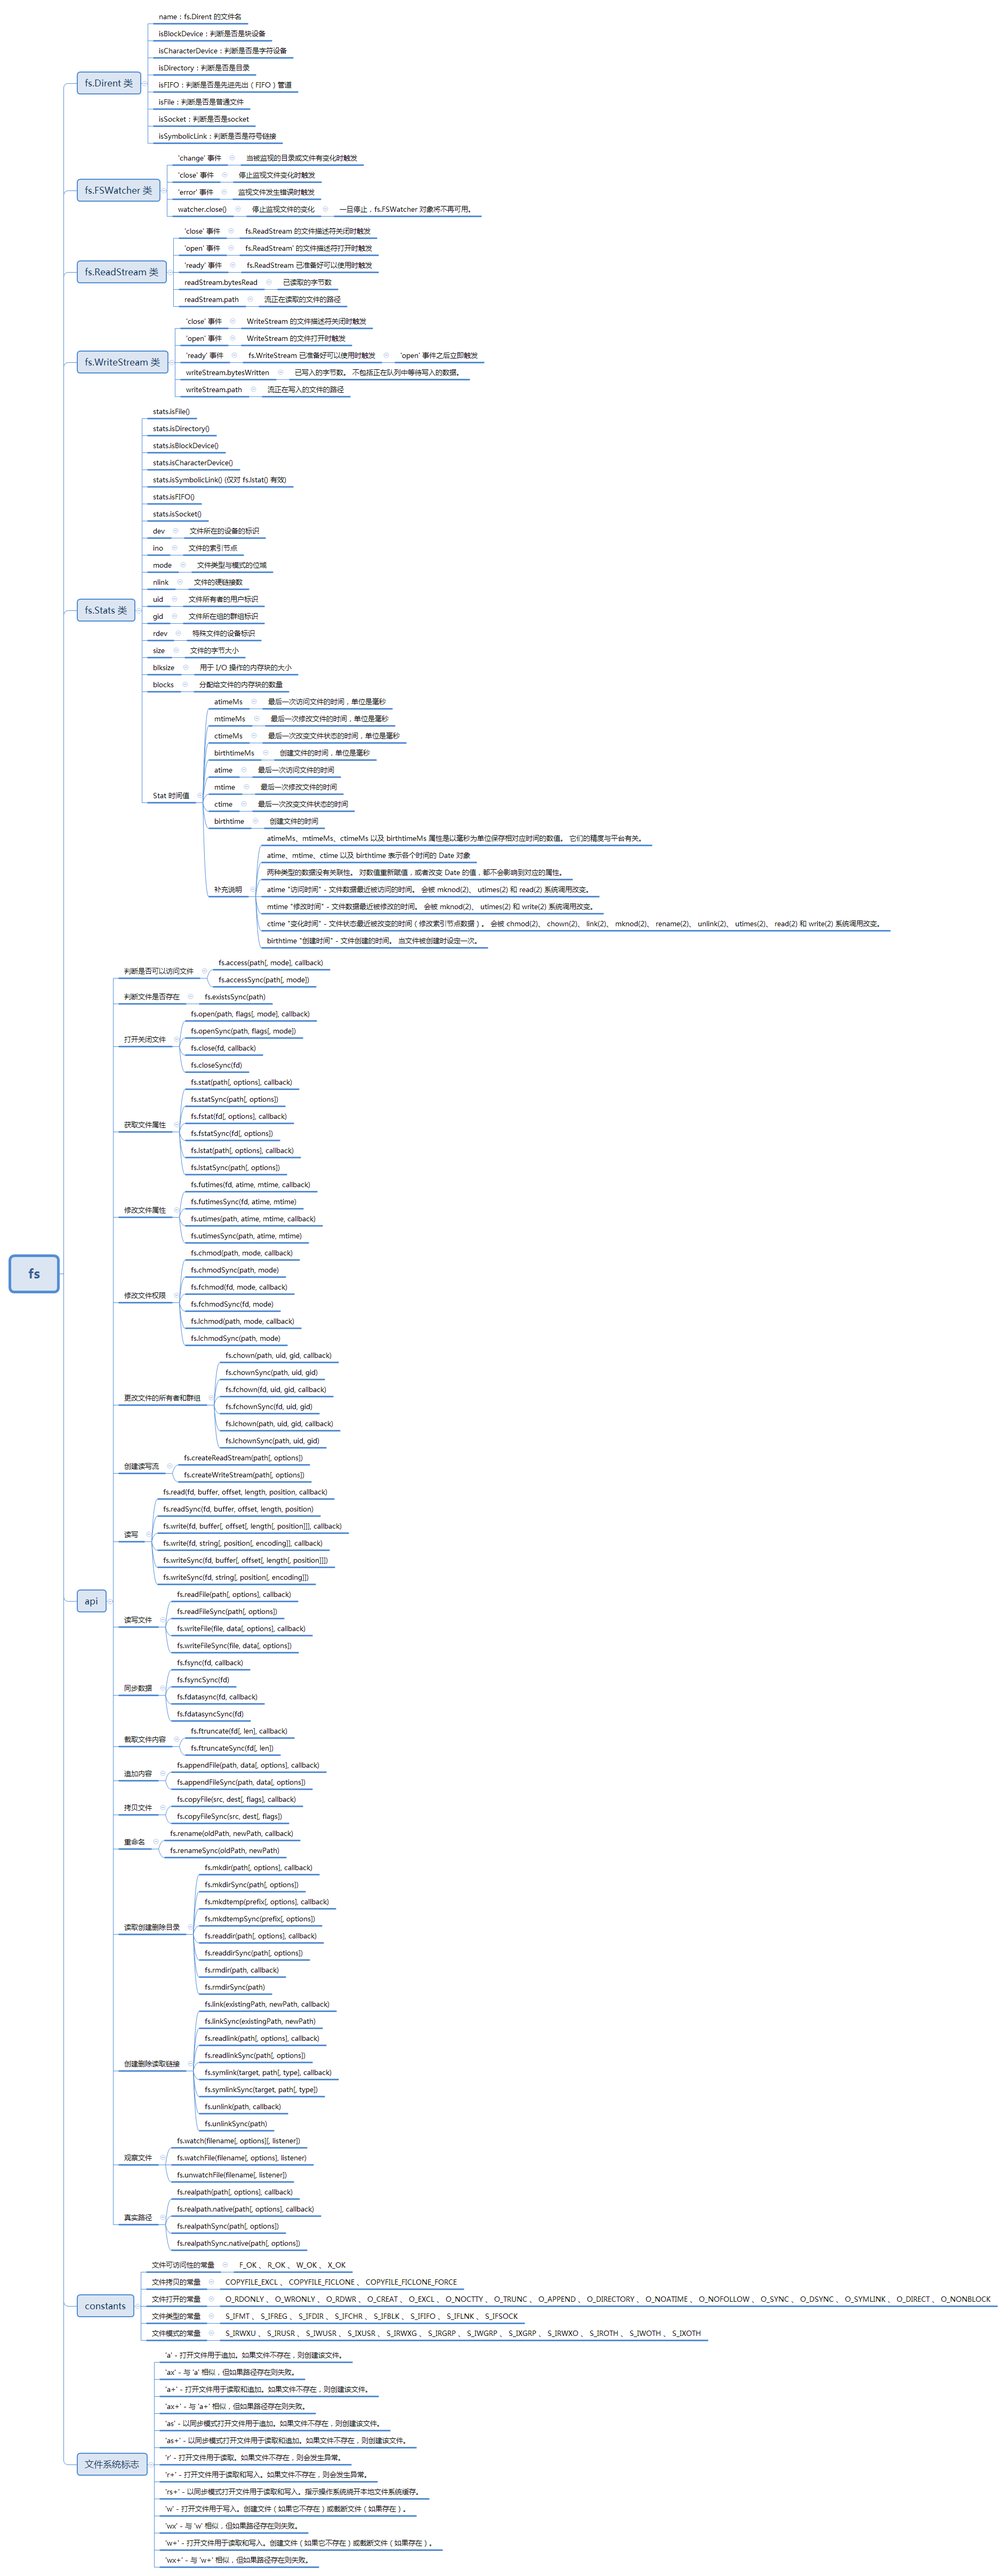
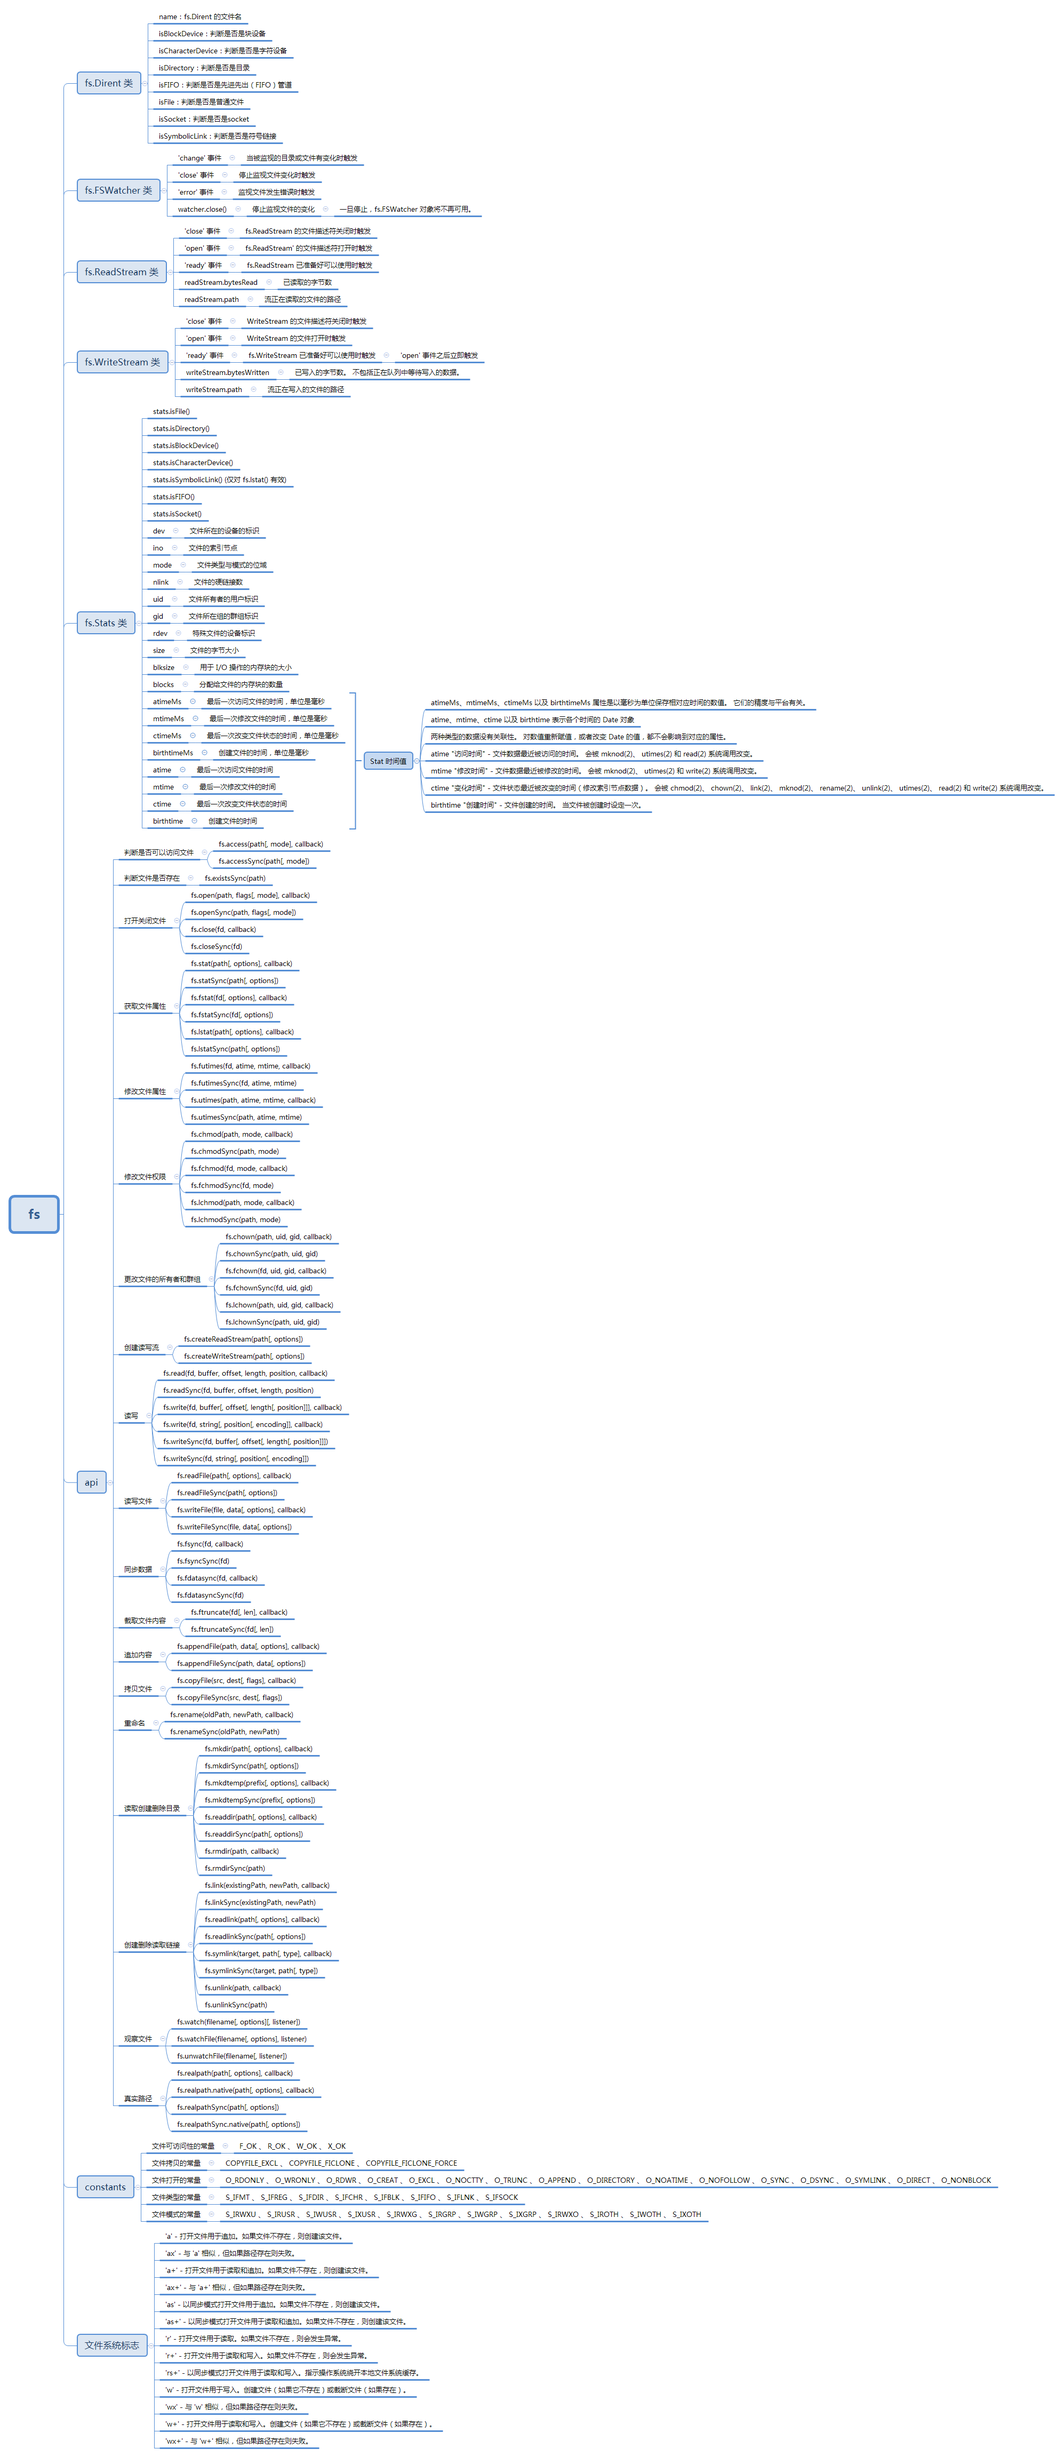
更新nodejs的文件操作模块概览图

Changed region(s): [[0.0625, 0.0, 0.7808, 1.0], [0.8121, 0.8693, 0.937, 0.9003], [0.0312, 0.4657, 0.0625, 0.4967]]

diff --git a/node/doc/fs.md b/node/doc/fs.md
@@ -1,0 +1,110 @@
+## nodejs —— fs
+### 概览
+fs 模块提供了一个 API，用于以接近标准 POSIX 函数的方式与文件系统进行交互。所有文件系统操作都具有同步和异步的形式。
+
+异步的形式始终将完成回调作为其最后一个参数。 传递给完成回调的参数取决于具体方法，但第一个参数始终保留用于异常。 如果操作成功完成，则第一个参数将为 null 或 undefined。使用异步方法时无法保证顺序
+
+使用同步操作发生的异常会立即抛出，可以使用 try/catch 处理，也可以允许冒泡。
+
+![fs概览](../images/fs.png)
+
+
+### nodejs读写文件的三种方式
+#### 一、readFile和writeFile
+1、readFile方法是将要读取的文件内容完整读入缓存区，再从该缓存区中读取文件内容，具体操作如下：
+<pre><code>fs.readFile('./test.txt', 'utf8', function(err, data){
+  console.log(data); 
+});	</code></pre>
+与其对应的同步方法为：
+<pre><code>var data = fs.readFileSync('./test.txt', 'utf8');
+console.log(data);
+</code></pre>
+同步方法和异步方法的区别是：在使用同步方法执行的操作结束之前，不能执行后续代码的执行；而异步方法将操作结果作为回调函数的参数进行返回，方法调用之后，就可以立即执行后续的代码，读取完毕后会调用对应的回调函数。
+
+2、writeFile方法是将要写入的文件内容完整的读入缓存区，然后一次性的将缓存区中的内容写入都文件中，其同步和异步具体操作如下：
+<pre><code>fs.writeFile('./message.txt', '这是第一行',function(err){
+  if(err) console.log('写文件操作失败');
+  else console.log('写文件操作成功');
+});</code></pre>
+与其对应的同步方法为：
+<pre><code>fs.writeFileSync('./message.txt','这是第一行');</code></pre>
+
+以上的读写操作，Node.js将文件内容视为一个整体，为其分配缓存区并且一次性将文件内容读取到缓存区中，在这个期间，Node.js将不能执行任何其他处理。所以当读写大文件的时候，有可能造成缓存区“爆仓”。
+
+#### 二、read和write
+1、read或readSync方法读取文件内容是不断地将文件中的一小块内容读入缓存区，最后从该缓存区中读取文件内容，具体操作如下：
+<pre><code>var fs = require('fs');
+fs.open('./message.txt','r',function(err,fd){
+  var buf = new Buffer(225);
+  //读取fd文件内容到buf缓存区
+  fs.read(fd,buf,0,9,3,function(err,bytesRead,buffer){
+    console.log(buf.slice(0,bytesRead).toString());
+  }); 
+  var buff = new Buffer(225);
+  //位置设置为null会默认从文件当前位置读取
+  fs.read(fd,buff,0,3,null,function(err,bytesRead,buffer){
+    console.log(buff.slice(0,bytesRead).toString());
+  });
+ 
+  var buffer = new Buffer(225);
+  //同步方法读取文件
+  var bytesRead = fs.readFileSync(fd,buffer,0,9,3);
+  console.log(bytesRead);
+  console.log(buffer.slice(0,bytesRead).toString());
+});</code></pre>
+2、write或writeSync方法写入内容时，node.js执行以下过程：1将需要写入的数据写入到一个内存缓存区；2待缓存区写满后再将缓存区中的内容写入到文件中；3重复执行步骤1和步骤2，知道数据全部写入文件为止。具体操作如下：
+<pre><code>var fs = require('fs');
+var buf = new Buffer('我喜爱编程');
+fs.open('./mess.txt','w',function(err,fd){
+  fs.write(fd,buf,3,9,0,function(err,written,buffer){
+    fs.write(fd,buf,12,3,null,function(err,written,buffer){
+      if(err) console.log('写文件操作失败');
+      console.log('写文件操作成功');
+    });
+  });
+  //同步写入
+  fs.writeSync(fd,buf,3,9,0);
+});</code></pre>
+以上读写操作，node.js会将文件分成一块一块逐步操作，在读写文件过程中允许执行其他操作。
+
+但有的时候我们并不关心整个文件的内容，而只关注从文件中读取到的某些数据，以及读取到数据时需要执行的处理，这时我们可以使用文件流来处理。
+
+#### 三、createReadStream和createWriteStream
+1、createReadStream方法创建一个将文件内容读取为流数据的ReadStream对象，方法如下所示：
+<pre><code>var fs = require('fs');
+var readStream = fs.createReadStream('./message.txt',{start:3,end:12});
+readStream.on('open',function(fd){
+  console.log('开始读取文件');
+});
+readStream.on('data',function(data){
+  console.log('读取到数据：');
+  console.log(data);
+});
+readStream.on('end',function(){
+  console.log('文件已全部读取完毕');
+});
+readStream.on('close',function(){
+  console.log('文件被关闭');
+});
+readStream.on('error',function(err){
+  console.log('读取文件失败');
+});</code></pre>
+2、createWriteStream方法创建一个将流数据写入文件中的WriteStream对象，方法如下所示：
+<pre><code>var fs = require('fs');
+var file = fs.createReadStream('./message.txt');
+var out = fs.createWriteStream('./anotherMessage.txt');
+file.on('data',function(data){
+  out.write(data);
+});
+out.on('open',function(fd){
+  console.log('需要被写入的文件已打开');
+});
+file.on('end',function(){
+  //将操作系统缓存区中的数据全部写入文件
+  out.end('再见',function(){
+    console.log('文件全部写入完毕');
+    console.log('共写入'+out.bytesWritten+'数据');
+  });
+});</code></pre>
+
+### nodejs同步内核缓冲区
